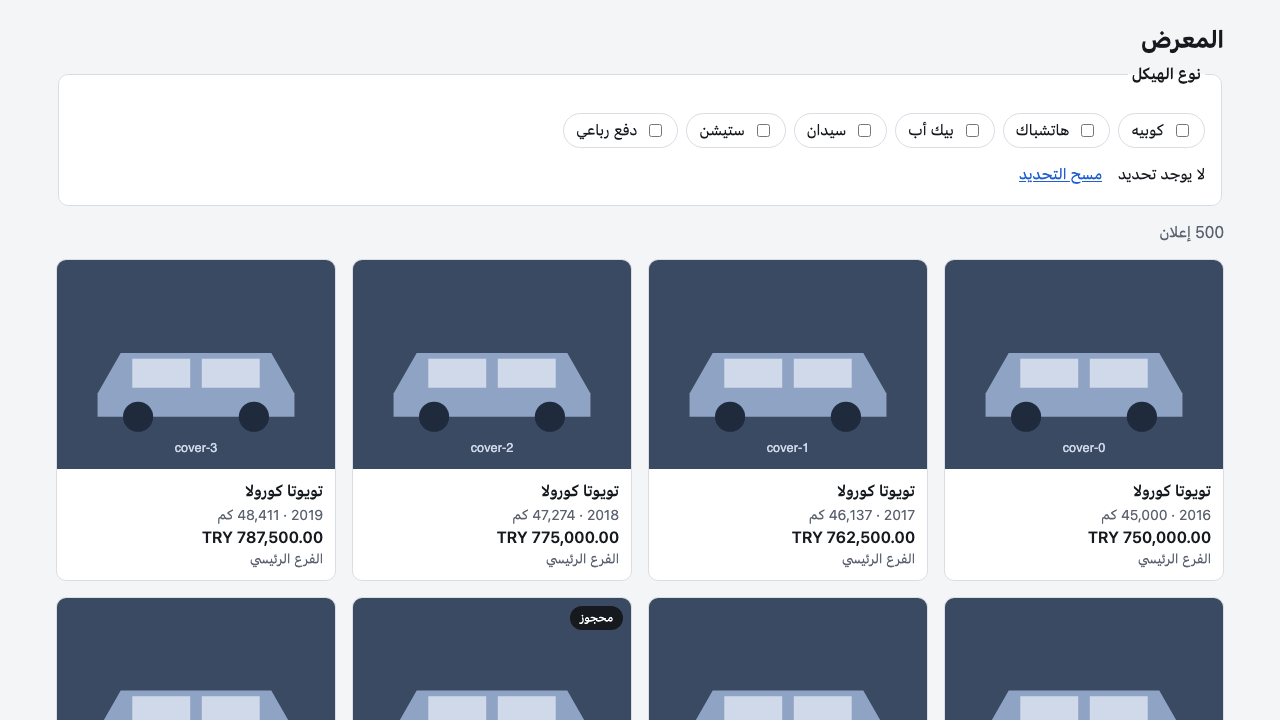
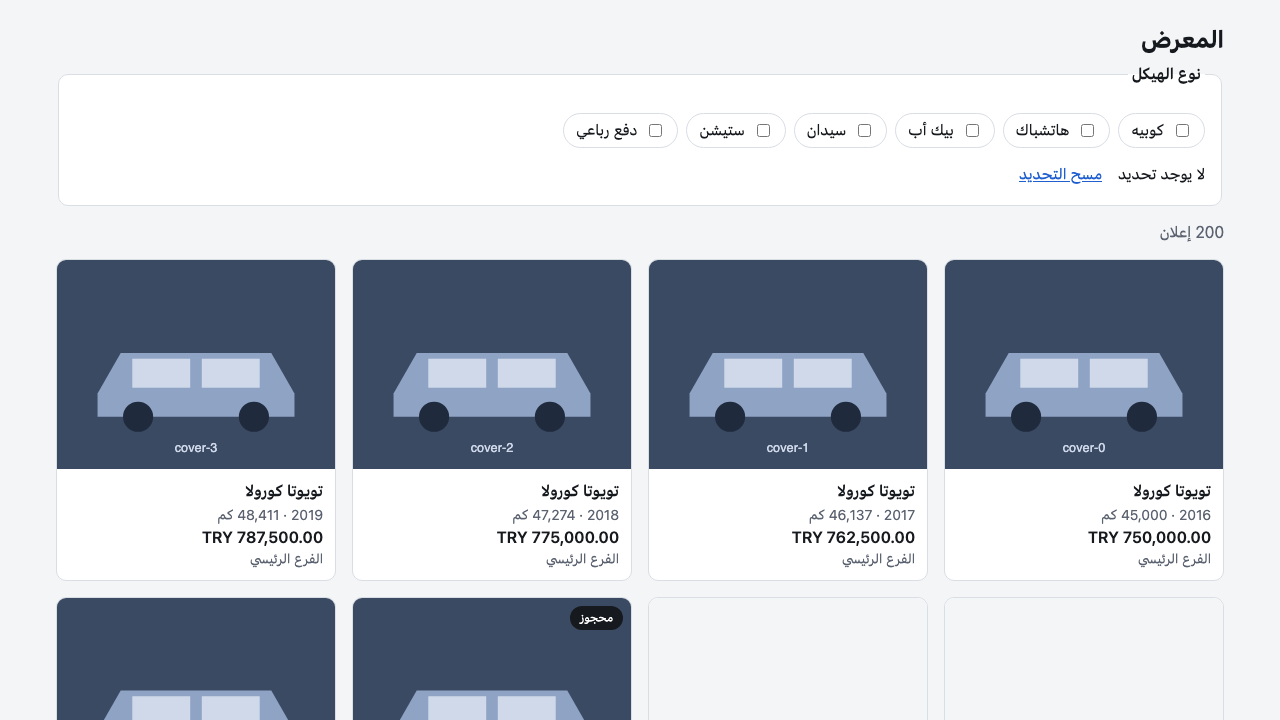
test(frontend): AC-18'in veri seti önkoşulunu açık hâle getir
Test ortamdaki ilan sayısına sessizce bağımlıydı: 120 ilanla SUV daraltması tek sayfaya
düşüyor, "ikinci sayfa" hiç oluşmuyor ve test 5 saniyelik anlamsız bir locator
timeout'uyla kırılıyordu — kırmızı, testin kendisini suçluyor gibi görünüyordu.

Artık önkoşul API'den okunup açıkça doğrulanıyor ve kırmızı ne gerektiğini söylüyor:
"AC-18 en az iki sayfalık daraltılmış küme gerektirir — scripts/dev-up.sh 200".
Küçük veri setiyle koşturularak mesajın gerçekten çıktığı doğrulandı.

Kanıt görüntüleri belgelenen veri setiyle (dev-up varsayılanı, 200 ilan) yeniden
üretildi; önceki set performans koşusunun 500'lük verisinden kalmıştı.

Changed region(s): [[0.5, 0.825, 0.9688, 1.0], [0.9062, 0.3056, 0.9375, 0.3361]]

diff --git a/frontend/e2e/paylasilabilirlik.spec.ts b/frontend/e2e/paylasilabilirlik.spec.ts
@@ -1,7 +1,21 @@
 import { expect, test } from '@playwright/test'
 
 test.describe('Paylaşılabilirlik ve geri tuşu', () => {
-  test('AC-18: Daraltılmış ve ikinci sayfadaki bir listenin bağlantısı yeni bir oturumda açıldığında aynı daraltma ve aynı sayfa görünür', async ({ browser }) => {
+  test('AC-18: Daraltılmış ve ikinci sayfadaki bir listenin bağlantısı yeni bir oturumda açıldığında aynı daraltma ve aynı sayfa görünür', async ({
+    browser,
+    request,
+  }) => {
+    // Kriter "ikinci sayfadaki liste" diyor; veri seti buna yetmiyorsa test sessizce
+    // yanlış şeyi doğrulamasın diye önkoşul açıkça kontrol edilir. Beklenen veri seti
+    // scripts/dev-up.sh varsayılanıdır (200 ilan) ve CI de onunla koşar.
+    const yanit = await request.get('/api/catalog/showcase-listings?bodyType=suv&locale=tr')
+    const sayfaSayisi = (await yanit.json()).totalPages as number
+
+    expect(
+      sayfaSayisi,
+      'AC-18 en az iki sayfalık daraltılmış küme gerektirir — Host yeterli veriyle seed edilmeli (scripts/dev-up.sh 200)',
+    ).toBeGreaterThanOrEqual(2)
+
     const context = await browser.newContext()
     const page = await context.newPage()
 
@@ -15,7 +29,9 @@ test.describe('Paylaşılabilirlik ve geri tuşu', () => {
     await context.close()
   })
 
-  test('AC-19: İkinci sayfadayken bir kasa tipi seçildikten sonra geri tuşu TEK hareketle daraltmasız ikinci sayfa hâline döner', async ({ page }) => {
+  test('AC-19: İkinci sayfadayken bir kasa tipi seçildikten sonra geri tuşu TEK hareketle daraltmasız ikinci sayfa hâline döner', async ({
+    page,
+  }) => {
     await page.goto('/tr/?page=2')
     await expect(page.getByTestId('page-indicator')).toContainText('2')
 
@@ -33,7 +49,9 @@ test.describe('Paylaşılabilirlik ve geri tuşu', () => {
     expect(url.searchParams.get('page')).toBe('2')
   })
 
-  test('AC-14: Son sayfanın ötesinde bir sayfa istendiğinde ilk sayfa gösterilir ve adres kanonik biçime düzeltilir', async ({ page }) => {
+  test('AC-14: Son sayfanın ötesinde bir sayfa istendiğinde ilk sayfa gösterilir ve adres kanonik biçime düzeltilir', async ({
+    page,
+  }) => {
     await page.goto('/tr/?page=999')
     await expect(page.getByTestId('result-count')).toBeVisible()
 
